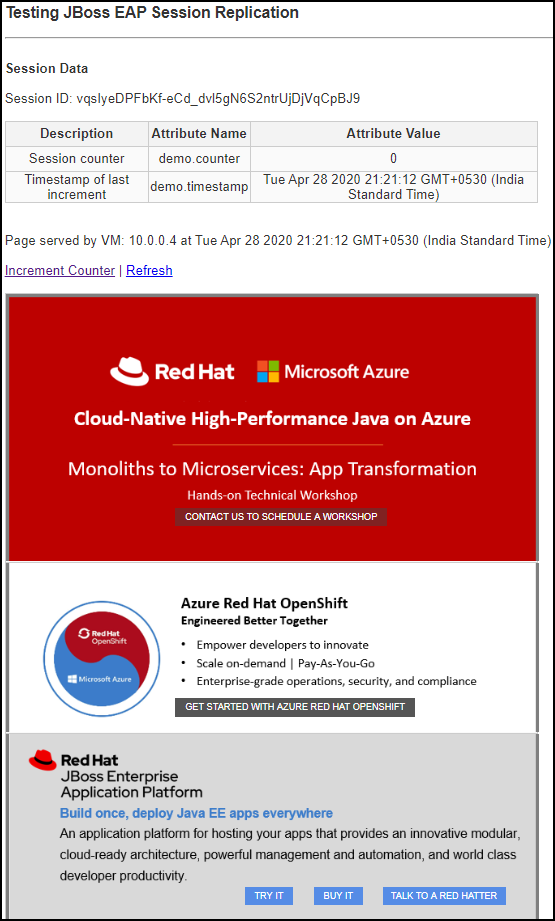
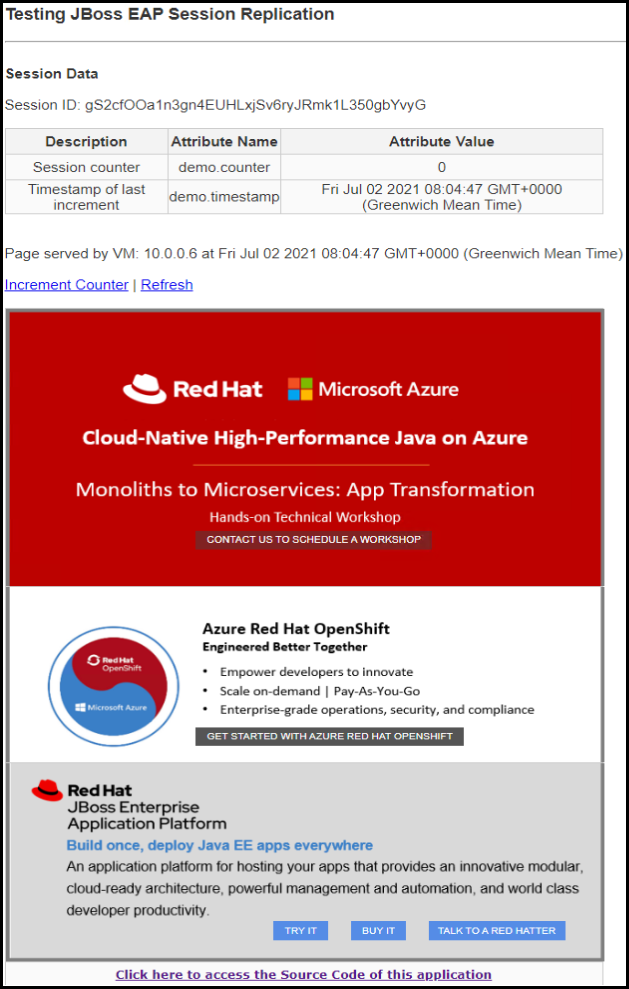
Replace the version EAP 7.3 on RHEL 8.0 to EAP 7.3 on RHEL 8.4 for JBoss EAP on RHEL (clustered, multi-VM) (#11490)
* Added version EAP 7.3 on RHEL 8.4

* Change in image due to change in Sample App

* Minor changes to Sample Application

* Changes for best practices

Changed region(s): [[0.0, 0.0, 1.0, 1.0], [0.9802, 0.0, 1.0, 0.0608]]

diff --git a/application-workloads/jboss/jboss-eap-clustered-multivm-rhel/README.md b/application-workloads/jboss/jboss-eap-clustered-multivm-rhel/README.md
@@ -35,20 +35,20 @@ Red Hat Subscription Management (RHSM) is a customer-driven, end-to-end solution
 
 ## Template Solution Architecture
 
-This Azure Resource Manager (ARM) template creates all the Azure compute resources to run JBoss EAP 7.2/EAP 7.3 cluster running 'n' number of Red Hat Enterprise Linux (RHEL) 7.7/8.0 VMs, where 'n' is decided by the user and all the VMs are added to the backend pool of a Load Balancer. The following resources are created by this template:
+This Azure Resource Manager (ARM) template creates all the Azure compute resources to run JBoss EAP 7.2/EAP 7.3 cluster running 'n' number of Red Hat Enterprise Linux (RHEL) 7.7/8.0/8.4 VMs, where 'n' is decided by the user and all the VMs are added to the backend pool of a Load Balancer. The following resources are created by this template:
 
-- RHEL 7.7/8.0 Virtual Machines
+- RHEL 7.7/8.0/8.4 Virtual Machines
 - 1 Load Balancer
 - Virtual Network with a single subnet
 - JBoss EAP 7.2/EAP 7.3 cluster setup on the RHEL VMs
 - Sample Java application called **eap-session-replication** deployed on JBoss EAP
 - Storage Account
 
-Note that the users also have the option to choose between the Red Hat Enterprise Linux versions 7.7 and 8.0 and JBoss EAP versions 7.2 and 7.3. Users can select one of the following combinations for deployment
+Note that the users also have the option to choose between the Red Hat Enterprise Linux versions 7.7, 8.0 and 8.4 and JBoss EAP versions 7.2 and 7.3. Users can select one of the following combinations for deployment
 
 - JBoss EAP 7.2 on RHEL 7.7
 - JBoss EAP 7.2 on RHEL 8.0
-- JBoss EAP 7.3 on RHEL 8.0
+- JBoss EAP 7.3 on RHEL 8.4
 
 Following is the Architecture:
 
@@ -74,7 +74,7 @@ Read [Red Hat Enterprise Linux pricing](https://azure.microsoft.com/pricing/deta
 In order to use BYOS for RHEL OS Licensing, you need to have a valid Red Hat subscription with entitlements to use RHEL OS in Azure. Please complete the following prerequisites in order to use RHEL OS through BYOS model before you deploy this quickstart template.
 
 1. Ensure you have RHEL OS and JBoss EAP entitlements attached to your Red Hat Subscription.
-2. Authorize your Azure Subscription ID to use RHEL BYOS images. Please follow [Red Hat Subscription Management (RHSM) documentation](https://access.redhat.com/documentation/en-us/red_hat_subscription_management/1/html/red_hat_cloud_access_reference_guide/con-enable-subs) to complete this process. This includes multiple steps including:
+2. Authorize your Azure Subscription ID to use RHEL BYOS images. Please follow [Red Hat Cloud Access program overview](https://access.redhat.com/documentation/en/red_hat_subscription_management/1/html/red_hat_cloud_access_reference_guide/getting-started-with-ca_cloud-access#proc_new-ca-experience-option2_cloud-access) to complete this process. This includes multiple steps including:
 
     2.1 Enable Microsoft Azure as provider in your Red Hat Cloud Access Dashboard.
 
@@ -82,7 +82,7 @@ In order to use BYOS for RHEL OS Licensing, you need to have a valid Red Hat sub
 
     2.3 Enable new products for Cloud Access on Microsoft Azure.
     
-    2.4 Activate Red Hat Gold Images for your Azure Subscription. Refer to [Red Hat Subscription Management](https://access.redhat.com/documentation/en-us/red_hat_subscription_management/1/html/red_hat_cloud_access_reference_guide/using_red_hat_gold_images#con-gold-image-azure) for more details.
+    2.4 Activate Red Hat Gold Images for your Azure Subscription. Refer to [Getting access to Gold Images](https://access.redhat.com/documentation/en/red_hat_subscription_management/1/html/red_hat_cloud_access_reference_guide/understanding-gold-images_cloud-access#getting-access-to-gold-images_cloud-access) for more details.
 
     2.5 Wait for Red Hat Gold Images to be available in your Azure subscription. These are typically available within 3 hours.
     
@@ -104,11 +104,13 @@ In order to use BYOS for RHEL OS Licensing, you need to have a valid Red Hat sub
 
     `az vm image terms accept --publisher redhat --offer rhel-byos --plan rhel-lvm8` - *For RHEL 8.0 BYOS VM*
 
-4. Your subscription is now ready to deploy RHEL 7.7/8.0 BYOS virtual machines.
+    `az vm image terms accept --publisher redhat --offer rhel-byos --plan rhel-lvm84` - *For RHEL 8.4 BYOS VM*
+
+4. Your subscription is now ready to deploy RHEL 7.7/8.0/8.4 BYOS virtual machines.
 
 #### Using JBoss EAP with BYOS Model
 
-JBoss EAP is available on Azure through BYOS model only; you need to supply your RHSM credentials along with RHSM Pool ID showing valid EAP entitlements when deploying this template. If you do not have EAP entitlement, you must obtain a [JBoss EAP evaluation subscription](https://access.redhat.com/products/red-hat-jboss-enterprise-application-platform/evaluation) or contact Red Hat for a production subscription before you get started.
+JBoss EAP is available on Azure through BYOS model only; you need to supply your RHSM credentials along with RHSM Pool ID showing valid EAP entitlements when deploying this template. If you do not have EAP entitlement, you must contact Red Hat for a subscription before you get started.
 
 ## Prerequisites
 
@@ -126,7 +128,7 @@ JBoss EAP is available on Azure through BYOS model only; you need to supply your
     
 ## Deployment Steps
 
-Build your environment with JBoss EAP 7.2/EAP 7.3 cluster setup on 'n' number of RHEL 7.7/8.0 VMs where 'n' is decided by the user and all the VMs are added to the backend pool of a Load Balancer on Azure in a few simple steps:
+Build your environment with JBoss EAP 7.2/EAP 7.3 cluster setup on 'n' number of RHEL 7.7/8.0/8.4 VMs where 'n' is decided by the user and all the VMs are added to the backend pool of a Load Balancer on Azure in a few simple steps:
 1. Launch the template by clicking the **Deploy to Azure** button.
 2. Complete the following parameter values and accept the Terms and Conditions before clicking on the **Purchase** button.
 
@@ -142,7 +144,7 @@ Build your environment with JBoss EAP 7.2/EAP 7.3 cluster setup on 'n' number of
 
     - **Admin Password or SSH key** - User account password or SSH key data which is an SSH RSA public key for logging into the RHEL VM.
 
-    - **EAP on RHEL Version** - Select the EAP on RHEL version combination from the dropdown options, the default option selected here is JBoss EAP 7.2 on RHEL 8.0.
+    - **EAP on RHEL Version** - Select the EAP on RHEL version combination from the dropdown options, the default option selected here is JBoss EAP 7.3 on RHEL 8.4.
 
     - **JBoss EAP Username** - Username for JBoss EAP Admin Console.
 
@@ -313,7 +315,7 @@ Please refer to [Using the Azure Custom Script Extension Version 2 with Linux VM
 
 If your deployment fails due to any reason (like the ones mentioned above), make sure you delete the whole resource group so that you are not charged for any of the resources deployed so far before failure occurred. In case of successful deployment, follow the same process of deleting the resource group created by the template and related resources (if created in other resource groups) to optimize Azure cost. Note that if you want to keep any resources in the resource group, you can delete other resources manually which does not have dependencies on the resources that you do not want to delete. Once your resources are deleted make sure you log into your RHSM account and remove the system you registered for the deployment of the template, so that you do not hit the "Maximum Enabled Entitlement Quantity" (if you have set any). You can remove the registered system under the *Systems* section in the Red Hat portal.
 
-`Tags: JBoss, Red Hat, EAP 7.2, EAP 7.3, Cluster, Load Balancer, RHEL 7.7, RHEL 8.0, Azure, Azure VM, Java EE`
+`Tags: JBoss, Red Hat, EAP 7.2, EAP 7.3, Cluster, Load Balancer, RHEL 7.7, RHEL 8.0, RHEL 8.4, Azure, Azure VM, Java EE`
 
 ## Support
 
